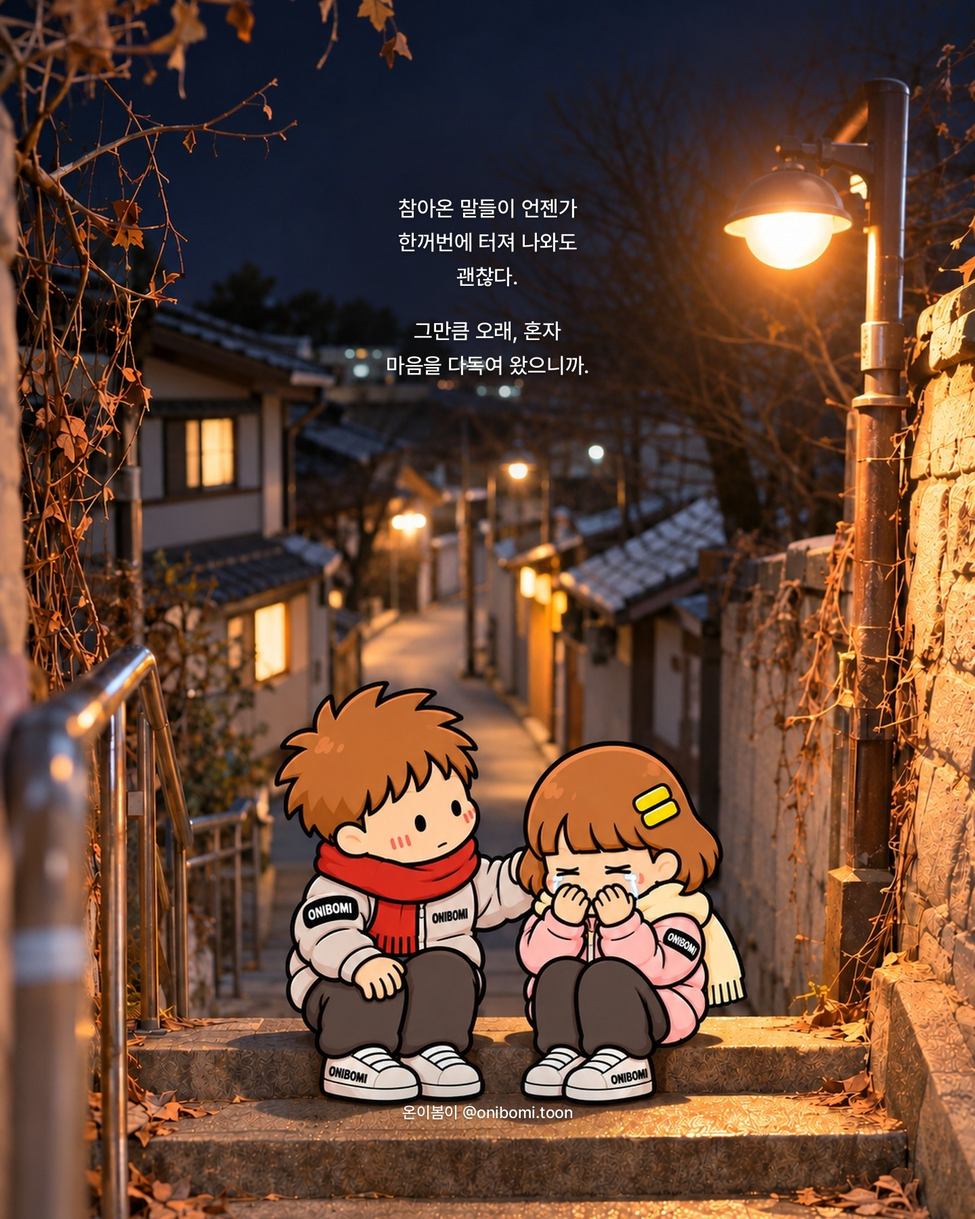
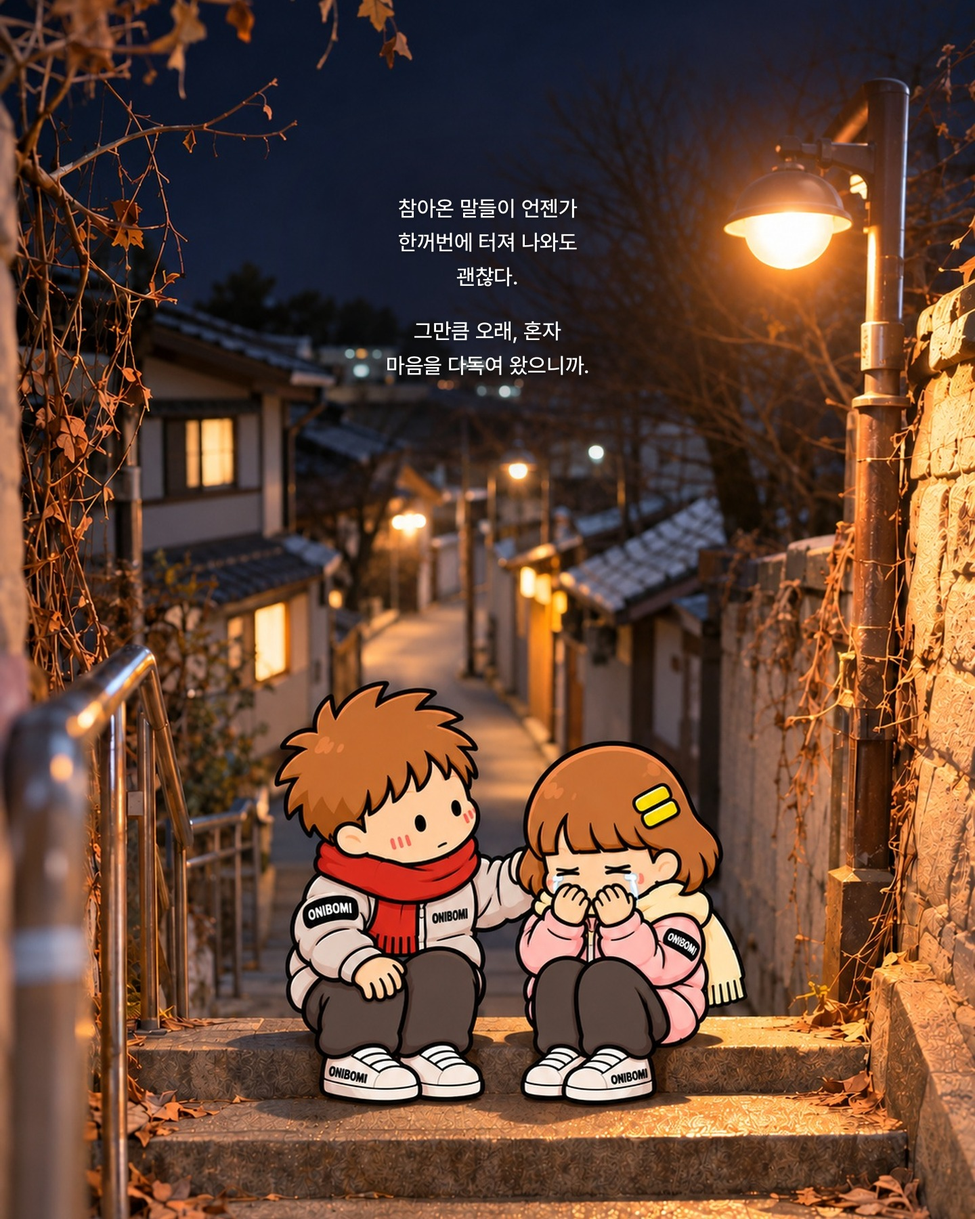
온이봄이: 하단 채널명 자동 표시 끔 (운영자가 직접 넣음)
Claude-Session: https://claude.ai/code/session_013eU9upHqCkSKw6QAxNnjDy

Changed region(s): [[0.375, 0.8711, 0.625, 0.9333]]

diff --git a/CLAUDE.md b/CLAUDE.md
@@ -25,6 +25,6 @@
 - 혜택·할인 정보 게시물(통신사·카드·브랜드 이벤트·쿠폰 등 모든 혜택)은 스크린데일리가 아닌 **별도 채널 '혜택알람'(@hyetaek.alarm)** 이다. `channel: deals` 를 꼭 적는다 (이름·아이디·해시태그·마지막 장이 그 채널 것으로 바뀜, 업로드 계정도 다름).
 - 혜택알람은 **혜택 하나당 캐러셀 3장 고정**: 01 사진 표지(`cover_style: photo`, **표지 고정 지침 `docs/cover_guide.md` 를 따른다**: 원본 사진 그대로, 좌측 하단 Pretendard Black, 첫 줄 통신사·멤버십·브랜드 흰색(10자 이하)·다음 1~2줄 핵심 혜택 노란색 #FFE500(줄당 12자 이하), 최대 3줄·25자, 글자는 최대한 크게(로고·상품 일부 가려도 됨), 외곽선·그림자·스티커 없음) → 02 혜택 받는 법(`type: steps`, 배경은 표지 사진을 흐리고 어둡게 + 흰 글씨, STEP 안에 기간(시작~마감, 예: '11/19~11/30 전국 매장 방문') 필수, STEP 3개 + 그 아래 채널 아이콘·'팔로우하고 혜택알람 받아보세요' 한 줄(자동, `outro.inline_follow`). 기간·조건·출처는 caption 에) → 03 팔로우 카드(모든 캐러셀 공용: 검정 배경, 프로필과 같은 오렌지 채널 아이콘만 색). 01·02장에는 브랜드 색 배경을 쓰지 않는다(어떤 사진에도 어울리게). 페이지 번호는 넣지 않는다. 01·02장 하단 가운데에 채널 주소 워터마크(퍼가기 방지), 03장은 큰 아이디가 있어 생략. 공식 확인 안 된 조건은 카드에 쓰지 않는다. 표지 사진은 사람 얼굴이 나오지 않는 이미지를 쓰고(초상권), 사진 출처는 카드에 찍지 않고 운영자가 게시글(소개)에 직접 적는다(작가·라이선스 원문은 img/sources.json). 다른 할인 계정의 디자인·문구·스티커를 그대로 따라 하지 않는다. 게시글(caption)에는 이모지를 넣지 않고 간결하게: 제목 한 줄 → 기간·대상·방법 → 세부 조건 확인 안내 → '팔로우하고 혜택알람 받아보세요'. 이미지 연출·출처 안내 문구(credits)는 게시글에 넣지 않는다. 예시 `drafts/deal_sangmu_1119/`, 새 게시물은 `python -m screendaily new 날짜 12:00 --deal 브랜드` (혜택알람 업데이트 시간은 매일 낮 12시, 스크린데일리는 평일 18시) (템플릿 `examples/deal_template/`)
 - **인스타툰 릴스**는 `instatoon` 스킬로 만든다 (주제 → 콘티·ChatGPT 프롬프트 → 사용자가 그린 6컷 조립). 캐릭터 기준 이미지 `assets/brand/toon_character.jpg`, 카드 `type: toon`·`cover_style: toon`, 말풍선 위치 `bubble_pos`.
-- **온이봄이 공감툰**(인스타 @onibomi.toon, 오빠 온이·동생 봄이 캐릭터 + 실사 배경 한 장, 월·수·금 21:00)은 별도 채널 `channel: gongam` 이고 `gongamtoon` 스킬로 만든다. 캐릭터·프롬프트·글귀 규칙은 **`docs/gongam_guide.md` 를 따른다** (캐릭터 고정 블록은 바꾸지 않음, **캐릭터는 화면의 약 1/3 크기**, **한강 배경 금지**, **옷 로고는 'ONIBOMI'만**(실제 브랜드 로고 금지), **어린이 책가방 금지**(가방은 필요할 때만 심플 백팩: 오빠 남색·동생 크림색), 의상은 기본·패딩·크리스마스 3버전 중 하나: 실내 기본, 겨울 실외 패딩 `assets/brand/siblings_winter.png`, 12/23·12/25 크리스마스 `assets/brand/siblings_christmas.png`). 기준 이미지 `assets/brand/siblings_character.png`·`siblings_style_ref.jpg`. 글귀는 `data/gongam_topics.md` 의 **감성·위로 문구 40선 원문 그대로**(게시글도 그 문장 + CTA 한 줄만, 새 문장 금지, 두 줄, 줄당 12자 이하, 연재 계획표 순서), **GPT는 글자 없는 그림만** 만들고(`images: [img/post.jpg]`), **글귀(`copy:`)와 하단 채널명("온이봄이 @onibomi.toon")은 프로그램이 넣는다** (Pretendard Medium, 글자 높이 세로 1.6%, 위에서 19%, 옅은 번짐, `config.yml` `copy_style`·`image_watermark`). 게시물은 **그림 한 장, 1440×1800** (소개·팔로우 카드 없음), out/ 에 JPG·PNG. 주제 창고 `data/gongam_topics.md`, 빈자리 `python -m screendaily next-slot --channel gongam`.
+- **온이봄이 공감툰**(인스타 @onibomi.toon, 오빠 온이·동생 봄이 캐릭터 + 실사 배경 한 장, 월·수·금 21:00)은 별도 채널 `channel: gongam` 이고 `gongamtoon` 스킬로 만든다. 캐릭터·프롬프트·글귀 규칙은 **`docs/gongam_guide.md` 를 따른다** (캐릭터 고정 블록은 바꾸지 않음, **캐릭터는 화면의 약 1/3 크기**, **한강 배경 금지**, **옷 로고는 'ONIBOMI'만**(실제 브랜드 로고 금지), **어린이 책가방 금지**(가방은 필요할 때만 심플 백팩: 오빠 남색·동생 크림색), 의상은 기본·패딩·크리스마스 3버전 중 하나: 실내 기본, 겨울 실외 패딩 `assets/brand/siblings_winter.png`, 12/23·12/25 크리스마스 `assets/brand/siblings_christmas.png`). 기준 이미지 `assets/brand/siblings_character.png`·`siblings_style_ref.jpg`. 글귀는 `data/gongam_topics.md` 의 **감성·위로 문구 40선 원문 그대로**(게시글도 그 문장 + CTA 한 줄만, 새 문장 금지, 두 줄, 줄당 12자 이하, 연재 계획표 순서), **GPT는 글자 없는 그림만** 만들고(`images: [img/post.jpg]`), **글귀(`copy:`)는 프로그램이 넣고, 채널명은 넣지 않는다**(운영자가 직접) (Pretendard Medium, 글자 높이 세로 1.6%, 위에서 19%, 옅은 번짐, `config.yml` `copy_style`·`image_watermark`). 게시물은 **그림 한 장, 1440×1800** (소개·팔로우 카드 없음), out/ 에 JPG·PNG. 주제 창고 `data/gongam_topics.md`, 빈자리 `python -m screendaily next-slot --channel gongam`.
 - 초안·시안은 `drafts/` 에 `draft: true` 로 만든다. `queue/` 에 넣으면 예약 시간에 자동 업로드된다.
 - 자동 업로드는 main 브랜치의 `queue/` 만 본다.

diff --git a/docs/gongam_guide.md b/docs/gongam_guide.md
@@ -3,7 +3,7 @@
 인스타 **온이봄이 @onibomi.toon** · 오빠 **온이**(따뜻할 온) · 동생 **봄이**(봄). 프로필 사진 `assets/brand/gongam_profile.png`
 
 오빠·동생 캐릭터를 **실사 배경**에 넣은 공감 한 장. 월·수·금 21:00 연재 (`channel: gongam`).
-그림은 ChatGPT(GPT 이미지)로 **글자 없이 그림만** 만든다. **글귀와 하단 채널명은 프로그램이 넣는다** (post.yml `copy:`, 2026-11-24 변경: GPT 글귀는 오타·폰트·크기가 매번 달라서).
+그림은 ChatGPT(GPT 이미지)로 **글자 없이 그림만** 만든다. **글귀는 프로그램이 넣고, 채널명은 운영자가 직접 넣는다** (post.yml `copy:`, 2026-11-24 변경: GPT 글귀는 오타·폰트·크기가 매번 달라서).
 
 - **캐릭터·선 굵기·채색·글귀 기준 (1순위, 첫 번째로 첨부)**: `assets/brand/siblings_style_ref.jpg` (비 오는 공원, 우산)
 - 캐릭터 시트 (두 번째로 첨부): 기본 `assets/brand/siblings_character.png`, 겨울(패딩) 회차는 `assets/brand/siblings_winter.png`, 크리스마스 회차는 `assets/brand/siblings_christmas.png`
@@ -127,7 +127,7 @@
 ### 글귀·채널명은 프로그램이 넣는다 (고정)
 - post.yml 에 `copy: |` 로 글귀를 적으면 미리보기·업로드 때 그림 위에 얹는다. 줄바꿈 그대로, 빈 줄은 문장 사이 띄움.
 - 폰트 Pretendard Medium(고딕), 흰색, 글자 높이 세로 1.6%, 가운데 정렬, 첫 줄 위에서 19% (4줄 이상이면 16%), 줄 간격 글자 높이 1.75배, 글귀 뒤에만 옅은 반투명 번짐(박스 없음).
-- 하단 채널명 "온이봄이 @onibomi.toon": 같은 폰트, 글자 높이 1.2%, 위에서 91.5%, 옅은 번짐.
+- 하단 채널명은 **넣지 않는다** (2026-11-24): 운영자가 직접 넣는다. 프로그램 채널명(`image_watermark`)은 꺼 둔다.
 - 값은 `config.yml` `channels.gongam.copy_style` / `image_watermark`. 바꾸면 모든 회차가 같이 바뀐다.
 - GPT 그림에는 글자를 하나도 넣지 않는다 (옷의 ONIBOMI 로고만 예외). 위쪽 15~36%는 글귀 자리로 차분한 톤, 맨 아래 89~94% 가운데는 채널명 자리.
 
